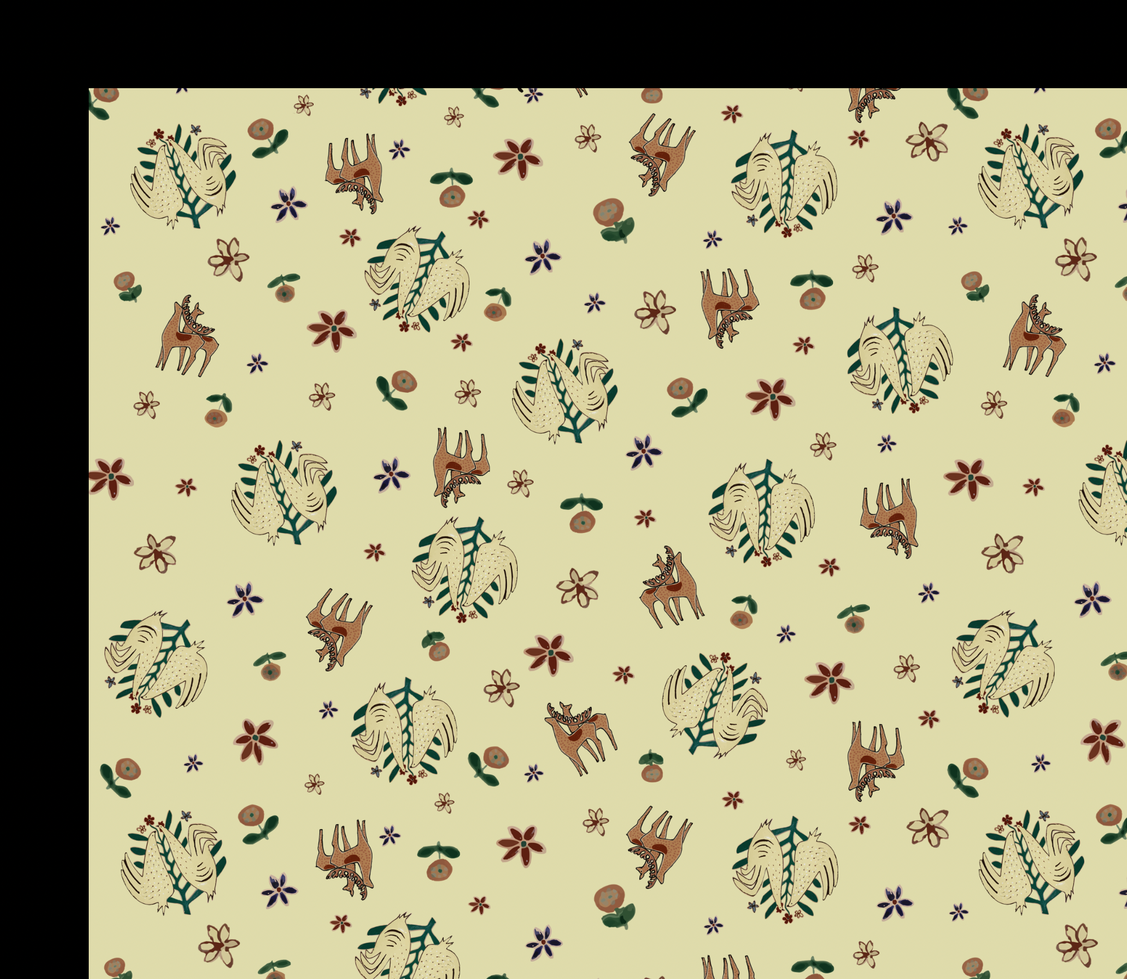
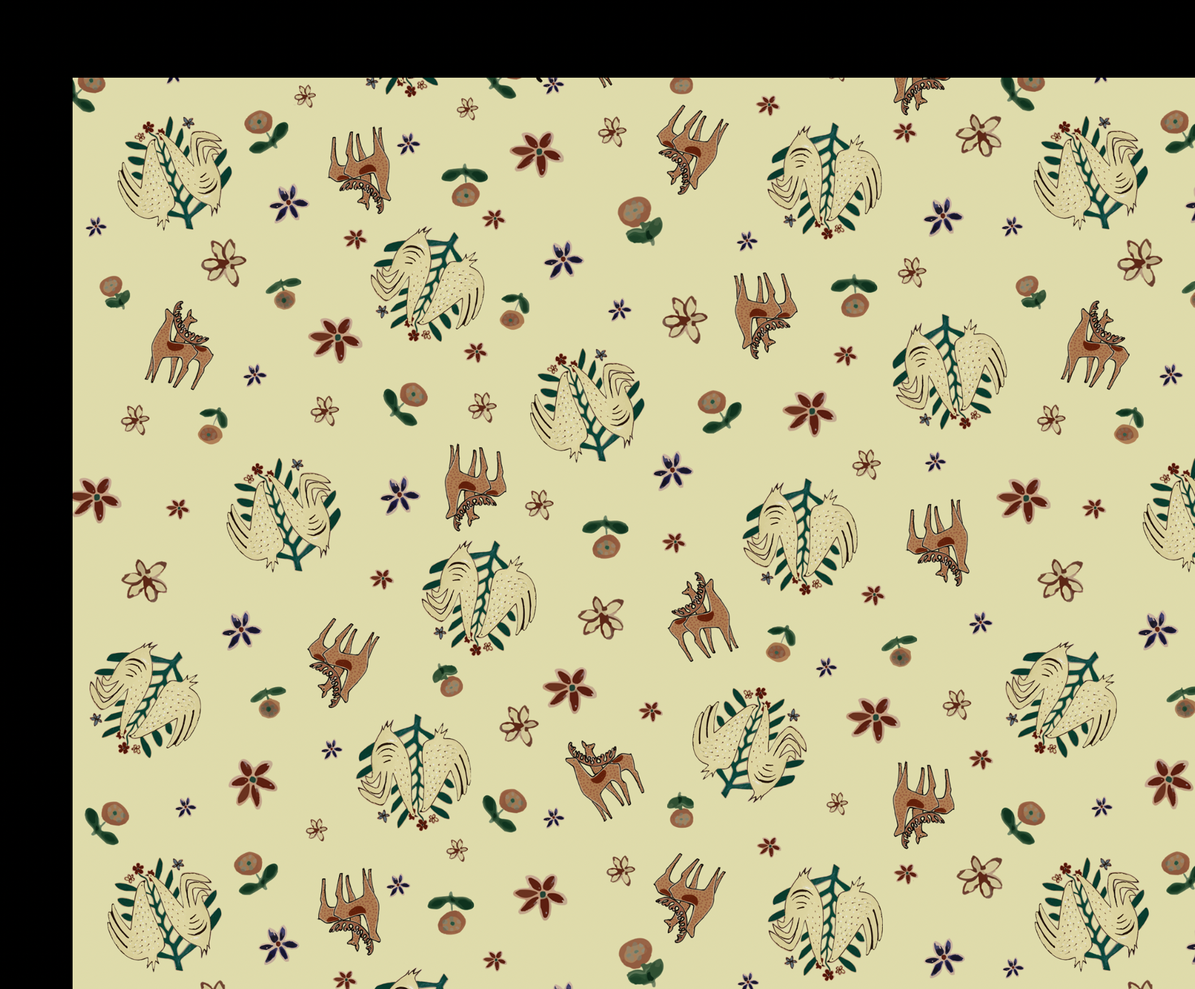
Added changes to the work page

diff --git a/work.html b/work.html
@@ -252,32 +252,50 @@
     <hr />
     <div class="container">
       <div class="row mt-5">
-        <div class="col-lg-6">
+        <div class="col-lg-3"></div>
+        <div class="col-lg-3">
           <img
             src="images/1.png"
-            class="photo"
+            class="img-fluid mt-4 photo"
             alt="Plate with pattern chicken"
           />
         </div>
-        <div class="paragraf col-lg-6">
+        <div class="paragraf col-lg-6 mt-4">
+          <img src="images/1a.png" class="img-fluid ms-3 photo" alt="" />
+        </div>
+        <div class="col-lg-3"></div>
+      </div>
+    </div>
+    <div id="pattern" class="container">
+      <div class="row">
+        <div class="col-lg-2"></div>
+        <div class="col-lg-4 mt-4">
+          <img src="images/12a.png" class="img-fluid mb-5" alt="" />
+        </div>
+        <div class="col-lg-6 mt-4">
           <p>
+            <strong>The Roots</strong>
+            <br />
             This collection is decorated with a print inspired by the Ukrainian
             ceramics tradition. It contains drawings from two plates. Pyotr
-            Markovich's chickens and Zinovy Bereza's deer meet on the fabric
+            Markovich's chickens and Zinovy Bereza's deer meet on the fabric. It
+            is an interesting process of creating a pattern and watching how the
+            illustration turns into fabric and then into clothes.
           </p>
         </div>
       </div>
     </div>
+    <hr class="mb-5" />
     <div
-      id="carouselExampleInterval"
-      class="carousel slide mb-5 second-page"
-      data-bs-ride="carousel"
+      id="carouselExampleControlsNoTouching"
+      class="carousel slide second-page"
+      data-bs-touch="false"
     >
       <div class="carousel-inner">
-        <div class="carousel-item active" data-bs-interval="10000">
+        <div class="carousel-item active">
           <img src="images/30.jpg" class="d-block w-100" alt="Fashion show" />
         </div>
-        <div class="carousel-item" data-bs-interval="2000">
+        <div class="carousel-item">
           <img src="images/31.jpg" class="d-block w-100" alt="Fashion show" />
         </div>
         <div class="carousel-item">
@@ -296,7 +314,7 @@
       <button
         class="carousel-control-prev"
         type="button"
-        data-bs-target="#carouselExampleInterval"
+        data-bs-target="#carouselExampleControlsNoTouching"
         data-bs-slide="prev"
       >
         <span class="carousel-control-prev-icon" aria-hidden="true"></span>
@@ -305,13 +323,14 @@
       <button
         class="carousel-control-next"
         type="button"
-        data-bs-target="#carouselExampleInterval"
+        data-bs-target="#carouselExampleControlsNoTouching"
         data-bs-slide="next"
       >
         <span class="carousel-control-next-icon" aria-hidden="true"></span>
         <span class="visually-hidden">Next</span>
       </button>
     </div>
+
     <div class="container">
       <div class="row">
         <div class="col-lg-2">

diff --git a/index.html b/index.html
@@ -78,7 +78,7 @@
         <div class="row">
           <div class="col-lg-6 text-center mt-5">
             <a href="/work.html"
-              ><img src="images/23.jpg" class="img-fluid" alt="Fashion Show"
+              ><img src="images/23a.jpg" class="img-fluid" alt="Fashion Show"
             /></a>
             <a href="work.html" title="Go to work page">
               <h4 class="mt-4">Fashion show</h4></a
@@ -86,7 +86,7 @@
           </div>
           <div class="col-lg-6 text-center mt-5">
             <a href="/work.html#pattern"
-              ><img src="images/15.jpg" class="img-fluid" alt="Fashion show"
+              ><img src="images/15.png" class="img-fluid" alt="Fashion show"
             /></a>
             <a href="/work.html#pattern" title="Go to work page">
               <h4 class="mt-4">Pattern work</h4></a
@@ -111,7 +111,7 @@
                 alt="Ukraine app Preview"
             /></a>
             <a href="https://fabulous-belekoy-ceb011.netlify.app/">
-              <h4 class="mt-4" title="Go to Netlify">Ukraine app</h4></a
+              <h4 class="mt-4" title="Go to Netlify">Ukraine Museum app</h4></a
             >
           </div>
           <div class="text-center">

diff --git a/src/style.css b/src/style.css
@@ -63,11 +63,12 @@ hr {
   border-radius: 20px;
 }
 
-img {
+.img-fluid {
   width: 500px;
-  border-radius: 15px;
-  box-shadow: 5px 5px 5px 5px rgb(227, 225, 225);
+  border-radius: 5px;
+  box-shadow: 2px 5px 5px 5px rgb(226, 223, 223);
 }
+
 .button {
   text-align: center;
 }
@@ -81,7 +82,7 @@ p {
   margin-bottom: 50px;
 }
 .second-page {
-  width: 400px;
+  width: 500px;
   display: block;
   margin: auto;
   margin-bottom: 50px;
@@ -121,6 +122,7 @@ p {
   right: 50px;
   bottom: 50px;
 }
+
 @media (max-width: 800px) {
   .homepage {
     text-align: center;
